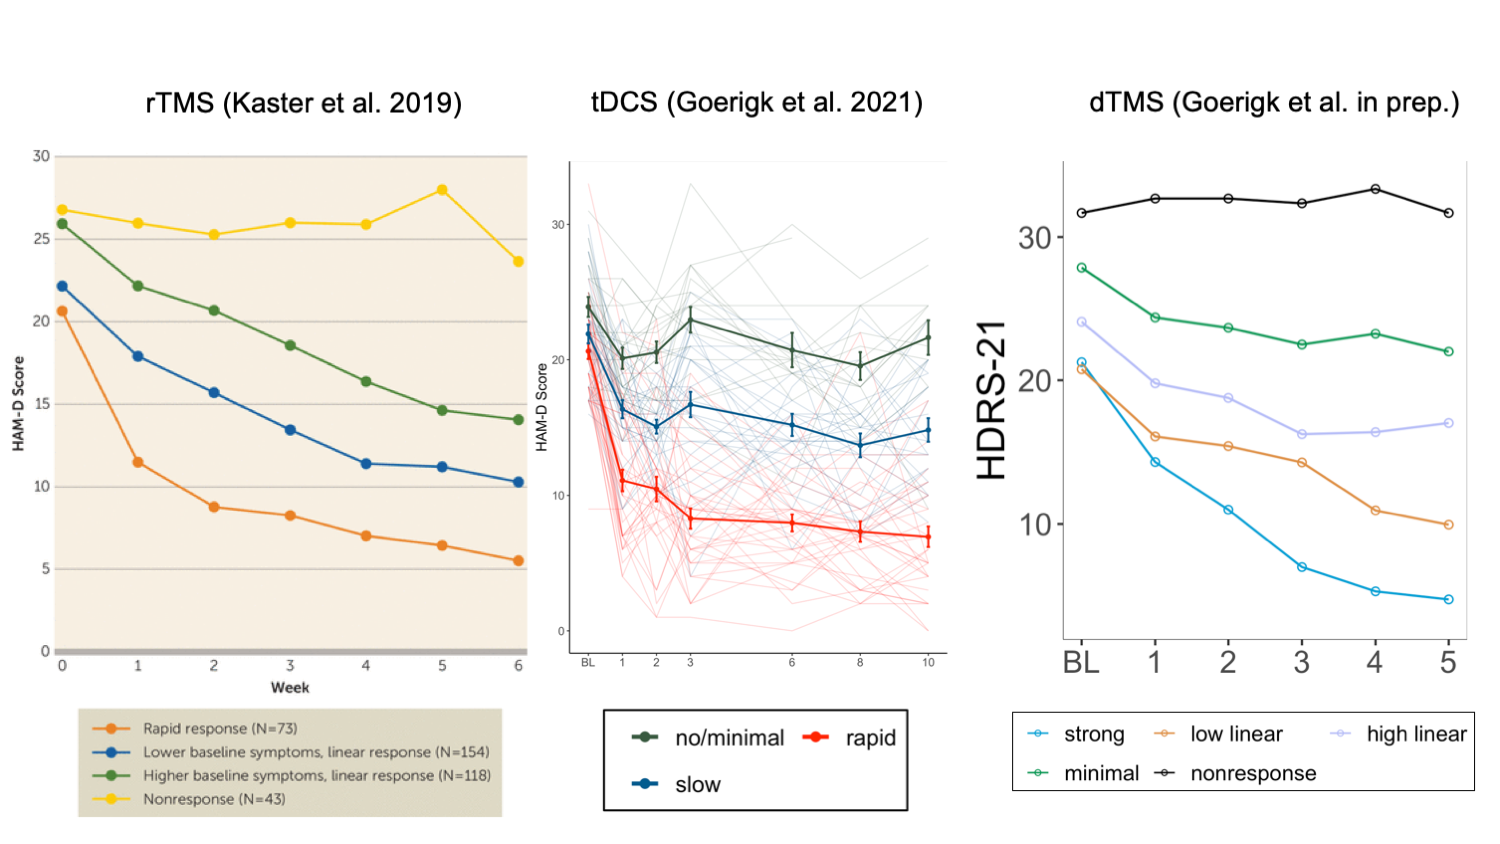
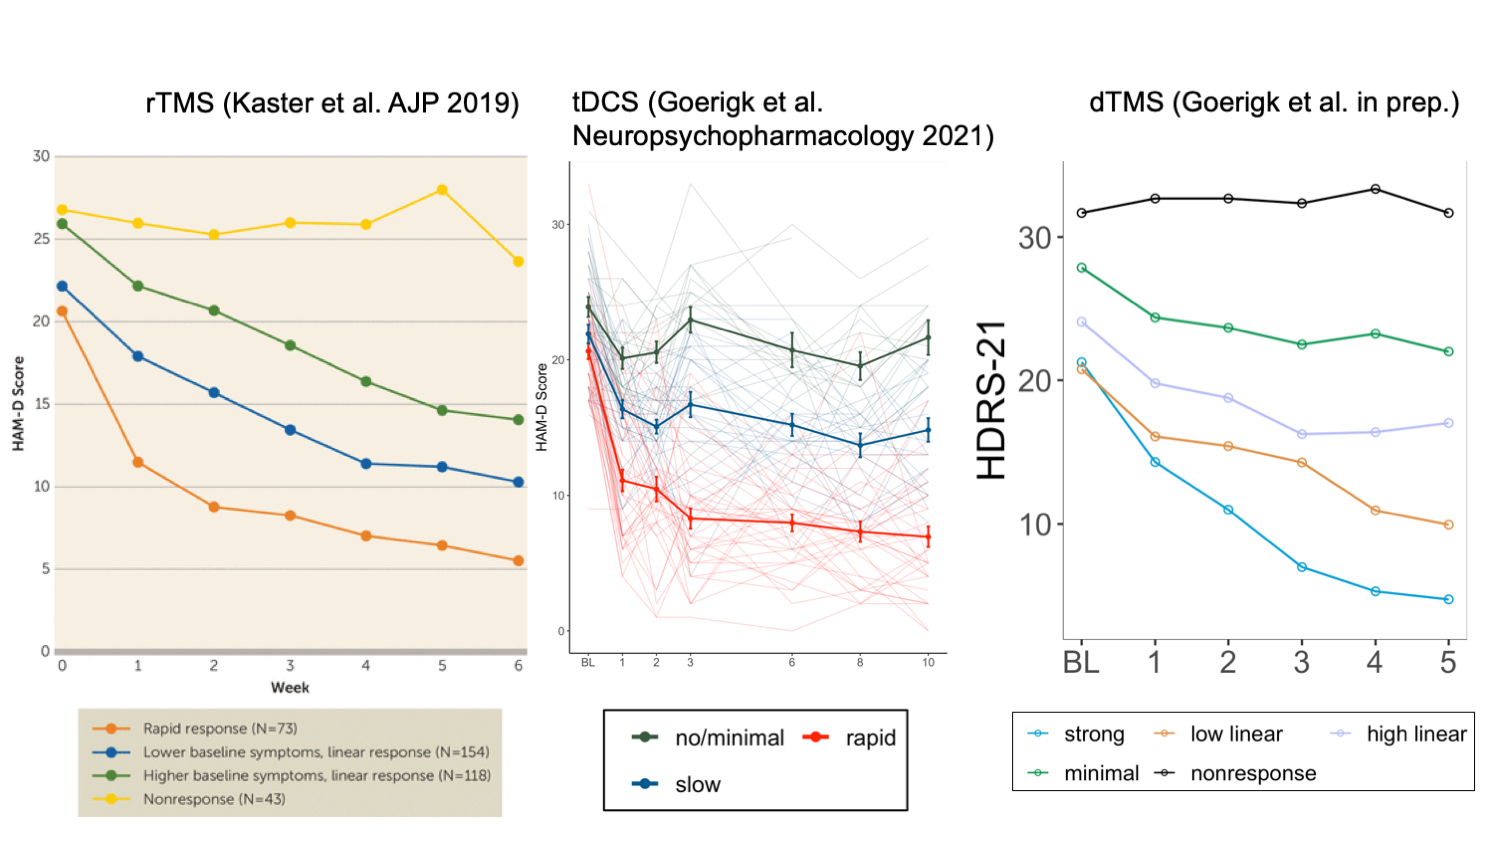
update

Changed region(s): [[0.368, 0.0924, 0.6747, 0.1848], [0.2453, 0.0924, 0.3373, 0.154]]

diff --git a/Slides_Stimulation.html b/Slides_Stimulation.html
@@ -638,7 +638,7 @@ class: top, left
 class: top, left
 ### Statistics to explain/understand variability
 
-#### Clinical improvement - Within-outcome clusters (Goerigk et al., 2021)
+#### Clinical improvement - Within-outcome clusters (Goerigk et al. Brain Stimulation, 2021)
 
 .center[
 &lt;img src="bilder/Fig1.png" width="950px" /&gt;
@@ -742,7 +742,7 @@ class: top, left
 class: top, left
 ### Statistics to explain/understand variability
 
-#### Within-subject variability: Time-Series Networks (Borsboom et al. 2021)
+#### Within-subject variability: Time-Series Networks (Borsboom et al. Nature Reviews 2021)
 
 .center[
 &lt;img src="bilder/nw1.png" width="700px" /&gt;
@@ -752,7 +752,7 @@ class: top, left
 class: top, left
 ### Statistics to explain/understand variability
 
-#### Within-subject variability: Time-Series Networks (Borsboom et al. 2021)
+#### Within-subject variability: Time-Series Networks (Borsboom et al. 2021 Nature Reviews 2021)
 
 .center[
 &lt;img src="bilder/Figure3.png" width="900px" /&gt;
@@ -763,7 +763,7 @@ class: top, left
 class: top, left
 ### Statistics to explain/understand variability
 
-#### Within-subject variability: Systems perspective (Lunansky et al. 2023)
+#### Within-subject variability: Systems perspective (Lunansky et al. preprint 2023)
 
 .center[
 &lt;img src="bilder/nw2.png" width="670px" /&gt;
